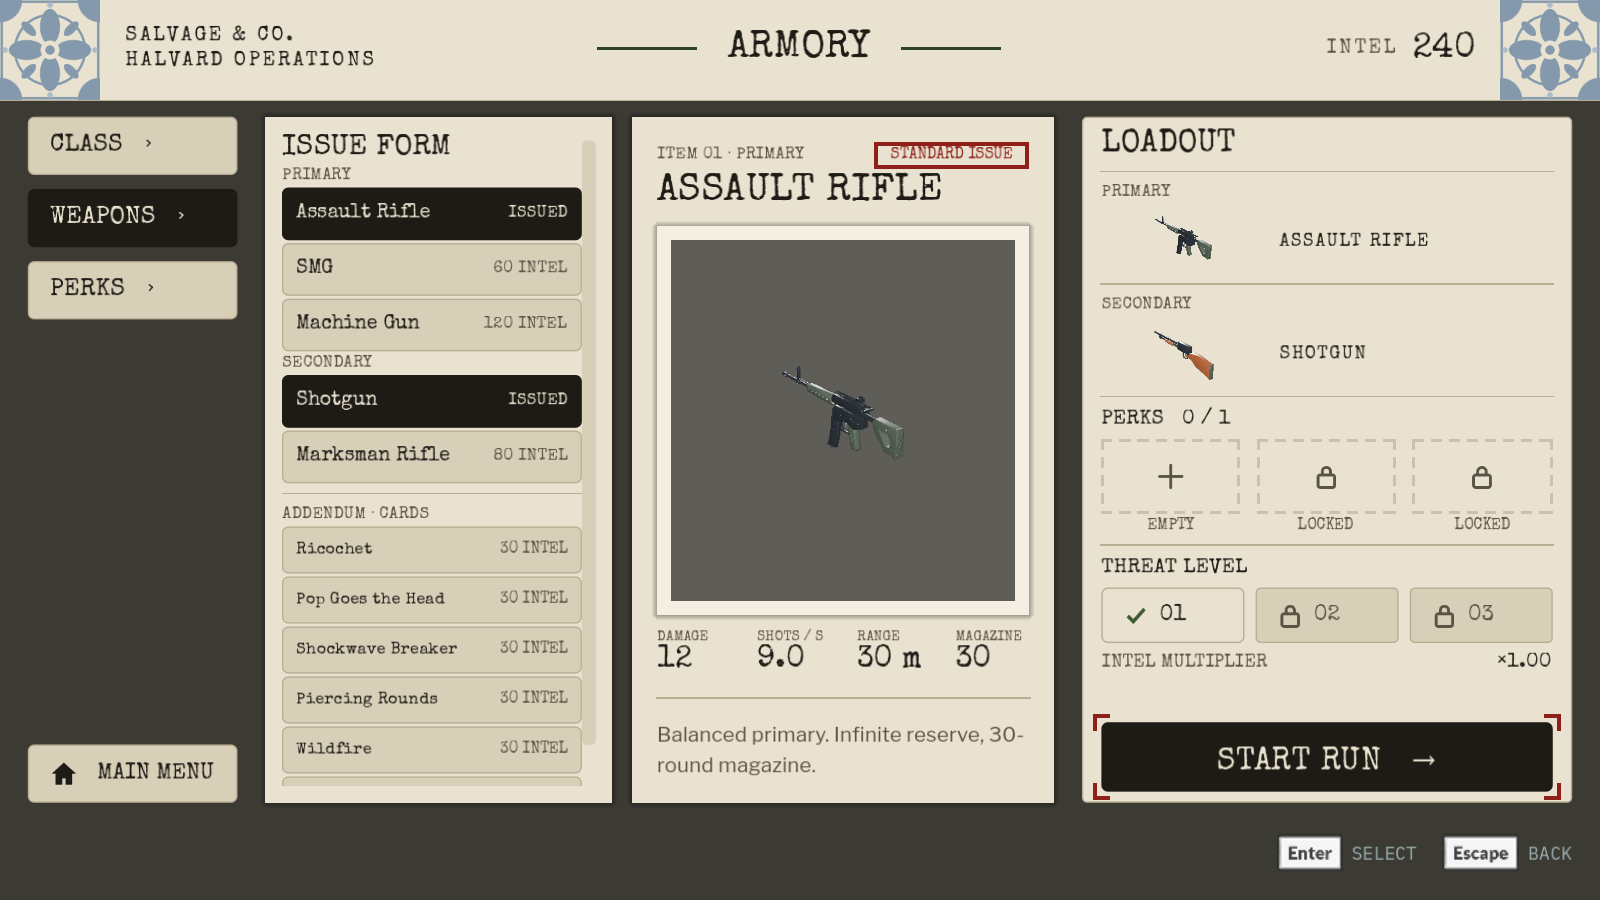
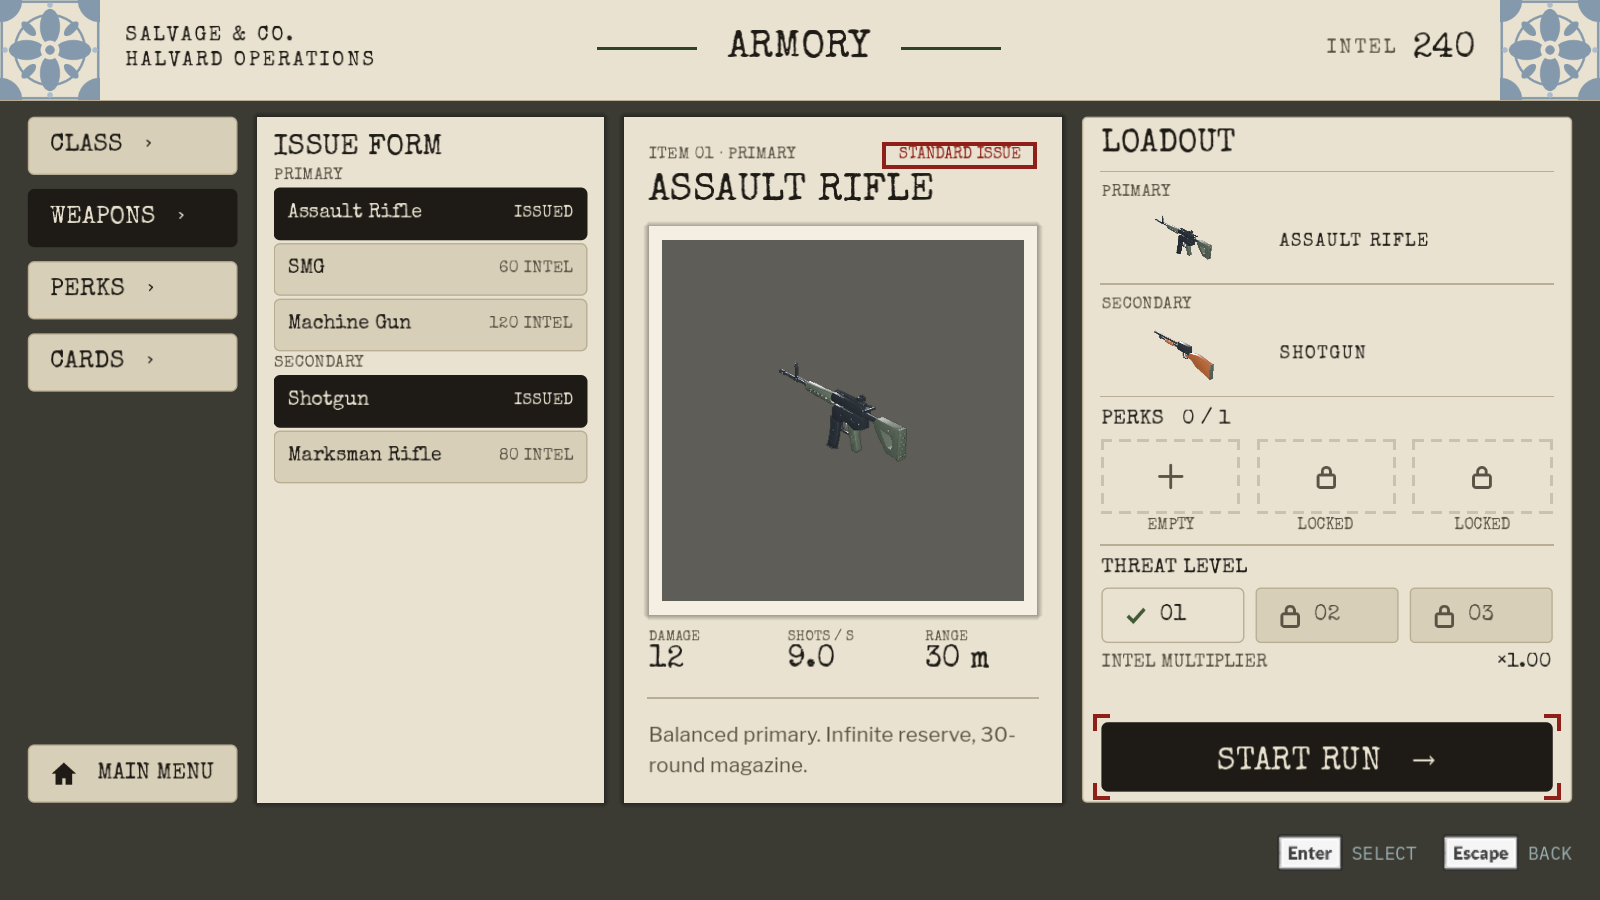
feat(ui): priced cards in their own tab, three figures per weapon
The issue form lists only weapons; the cards move to a CARDS tab with their descriptions. The item sheet shows damage, shots per second and range. Armory, perk, weapon and menu tests pass; the full suite was not rerun.

Changed region(s): [[0.0, 0.1244, 0.6875, 0.9022]]

diff --git a/TODO.md b/TODO.md
@@ -104,7 +104,9 @@ Bloqueados por mecânica (não são animação pendente; motivo em `docs/tech/LO
 
 ## Conteúdo e apresentação
 
-- [ ] Menus na direção A («field dossier»): feitos o título e o armory (classe com a fotografia
+- [ ] Menus na direção A («field dossier»): armas simplificadas a 2026-11-15 (cartas num separador
+  CARDS próprio, três números por arma); o LOADOUT não foi estreitado porque a folha dos perks
+  usa a mesma coluna. Feitos o título e o armory (classe com a fotografia
   3D, armas como formulário de requisição, perks num quadro de cortiça), com a Special Elite e a
   Libre Franklin; capturas em `docs/design/dossier_20261111/`. Por fazer: barco, debrief, cartas,
   diálogos (run, definições, arquivo) e pausa, que ainda usam o tema escuro. Nos cartões dos
